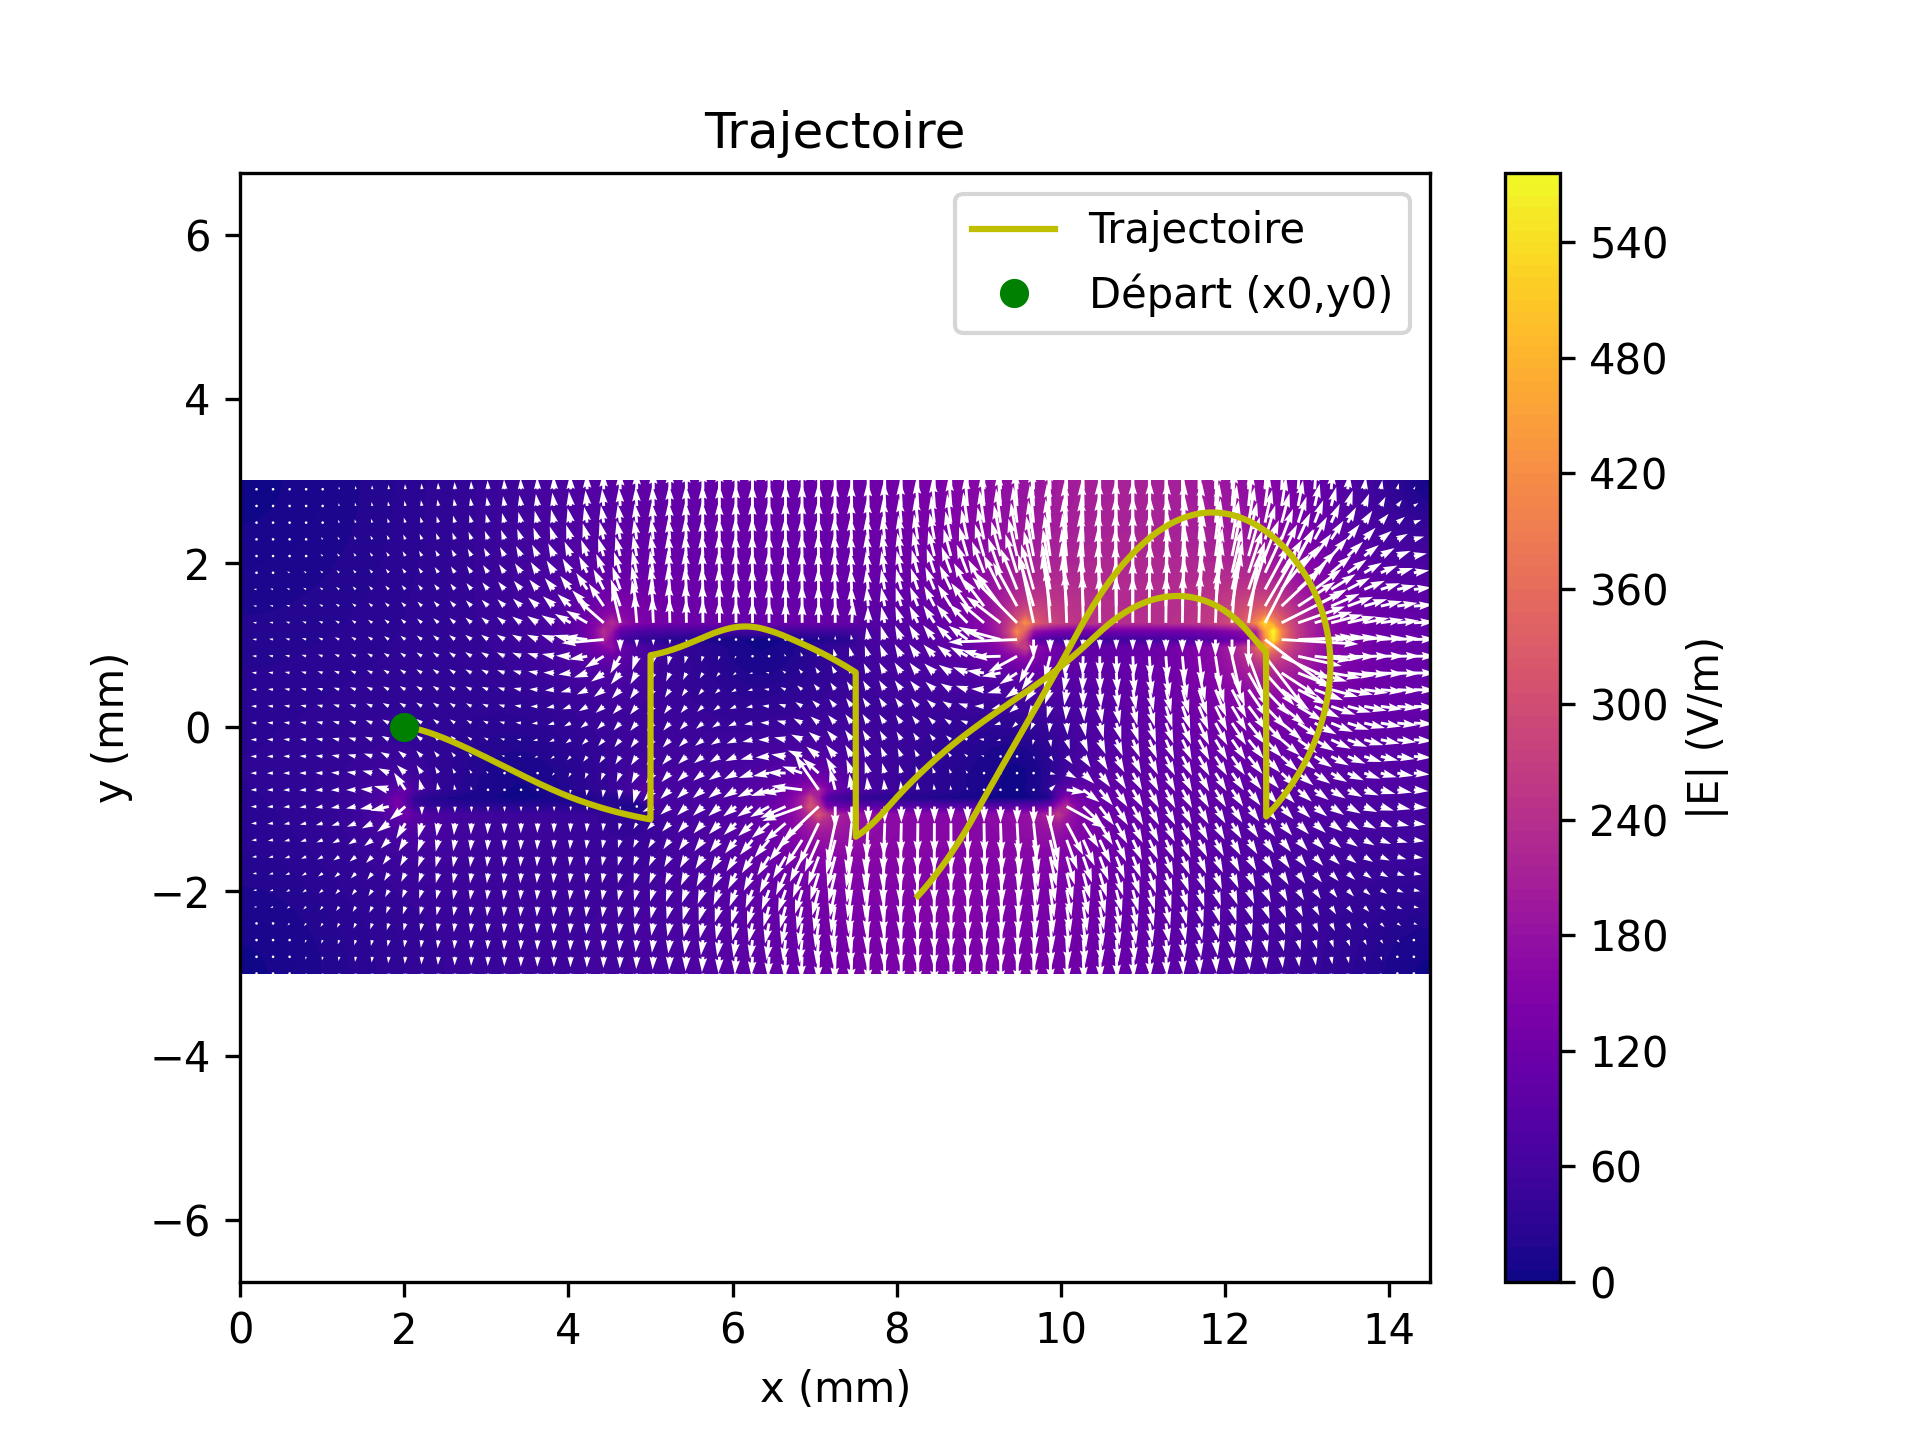
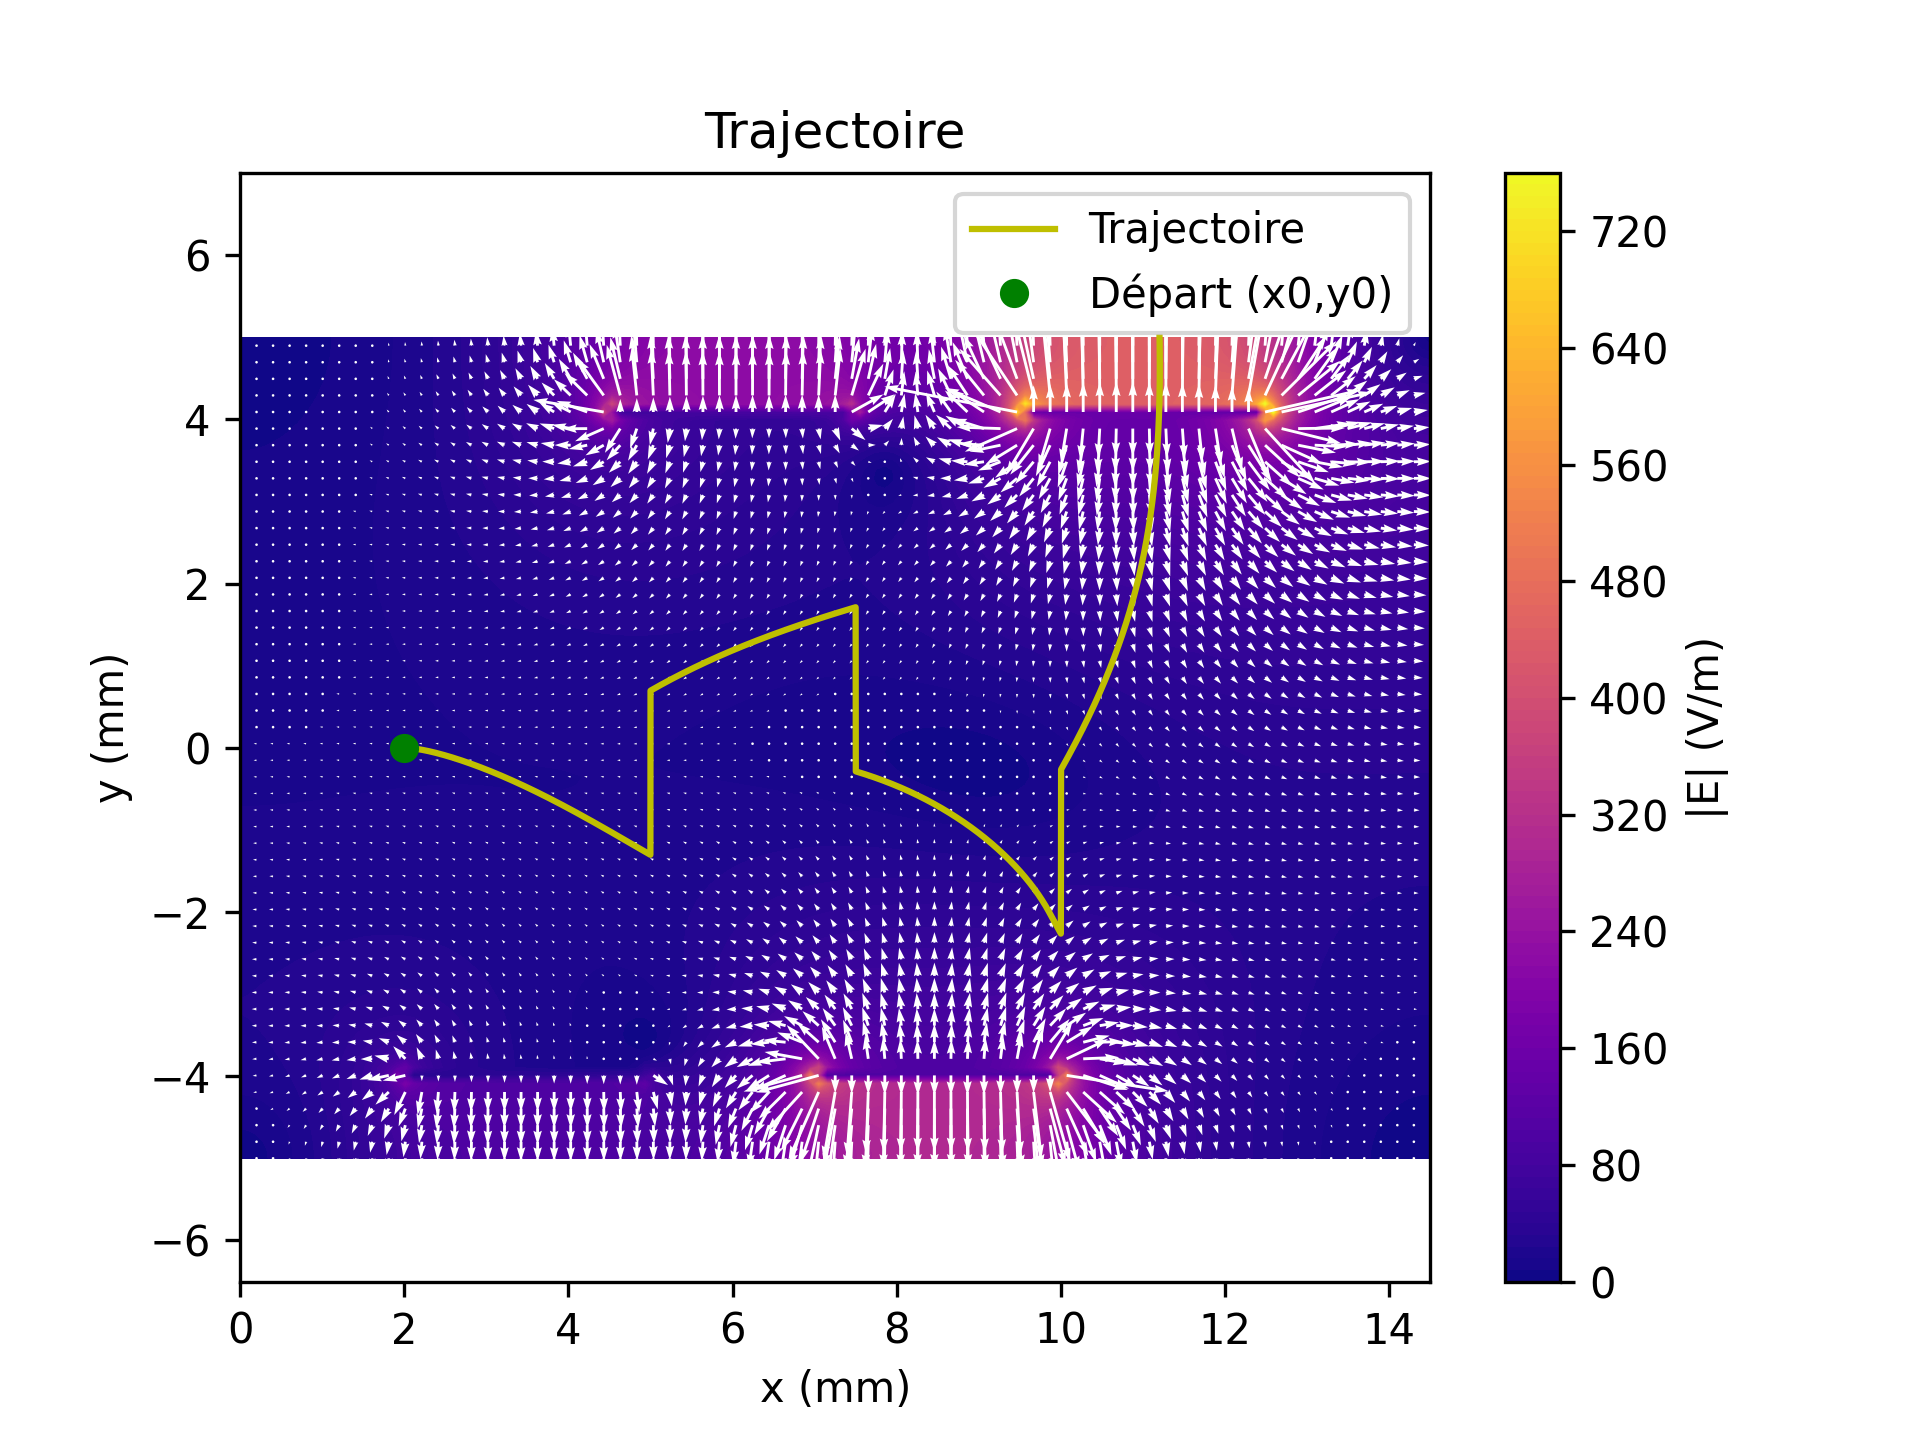
La fonction placer les dynodes marcent pas

diff --git a/question3c.py b/question3c.py
@@ -5,7 +5,7 @@ import numpy as np
 
 # ------------- CHANGER LES PARAMÈTRES AVANT DE LANCER LE CODE -------------------- # 
 #initialiser la géométrie
-a, b, c, d, e, f = 2, 2, 3, 2, 0.2, 6
+a, b, c, d, e, f = 2, 1, 3, 2, 0.2, 10
 N = 4
 dx = 0.1 # step
 
@@ -117,7 +117,7 @@ def Eulerer_lechamp(x, y, Ex, Ey, dx):
 
 # ------------POsitionner les dynodes du haut et celles du bas avec leur valeur de potentiel ------#
 
-def position_dynodes_bas(i, a=2, b=2, c=3, d=2, e=0.2):
+def position_dynodes_bas(i, a=2, b=1, c=3, d=2, e=0.2):
     #dynodes_bas = []
     vert_start = b #coordonnée verticale du début de la dynode
     vert_end = b + e # la fin
@@ -128,7 +128,7 @@ def position_dynodes_bas(i, a=2, b=2, c=3, d=2, e=0.2):
     return [vert_start, vert_end, horiz_start, horiz_end, pot]
 
 
-def position_dynodes_haut(i, a=2, b=2, c=3, d=2, e=0.2, f=6):
+def position_dynodes_haut(i, a=2, b=1, c=3, d=2, e=0.2, f=10):
     #dynodes_haut = []
     vert_start = f-b #coordonnée verticale du début de la dynode
     vert_end = vert_start - e # la fin
@@ -145,9 +145,9 @@ def contact_dyn_bas(x_new, y_new, x_old, y_old):#, dynodes_bas):
     if y_new <= 0:
         pente = y_new - y_old / x_new - x_old
         for i in range (N//2 + N%2):
-            dynodes_bas = position_dynodes_bas(i, a=2, b=2, c=3, d=2, e=0.2)
+            dynodes_bas = position_dynodes_bas(i, a=2, b=1, c=3, d=2, e=0.2)
             if x_new <= dynodes_bas[3] and x_old >= dynodes_bas[2]:
-                if y_new <= dynodes_bas[1] and y_old >= dynodes_bas[0]:
+                if y_new <= dynodes_bas[1] and y_old >= dynodes_bas[1]:
                     x_new = dynodes_bas[1]/pente
                     y_new = dynodes_bas[1]
                     return True
@@ -171,13 +171,13 @@ def contact_dyn_haut(x_new, y_new, x_old, y_old):#, dynodes_haut):
     if y_new >= 0:
         pente = y_new - y_old / x_new - x_old
         for i in range (N//2):
-            dynodes_haut = position_dynodes_haut(i, a=2, b=2, c=3, d=2, e=0.2, f=6)
+            dynodes_haut = position_dynodes_haut(i, a=2, b=1, c=3, d=2, e=0.2, f=10)
             if x_new <= dynodes_haut[3] and x_old >= dynodes_haut[2]:
-                if y_new <= dynodes_haut[0] and y_old >= dynodes_haut[1]:
+                if y_new <= dynodes_haut[0] and y_old >= dynodes_haut[0]:
                     x_new = dynodes_haut[1]/pente
                     y_new = dynodes_haut[1]
                     return True
-                if dynodes_haut[1] <= y_new <= dynodes_haut[0] and y_old <= dynodes_haut[1]:
+                if dynodes_haut[1] <= y_new <= dynodes_haut[0] and y_old <= dynodes_haut[0]:
                     x_new = dynodes_haut[1]/pente
                     y_new = dynodes_haut[1]
                     return True
